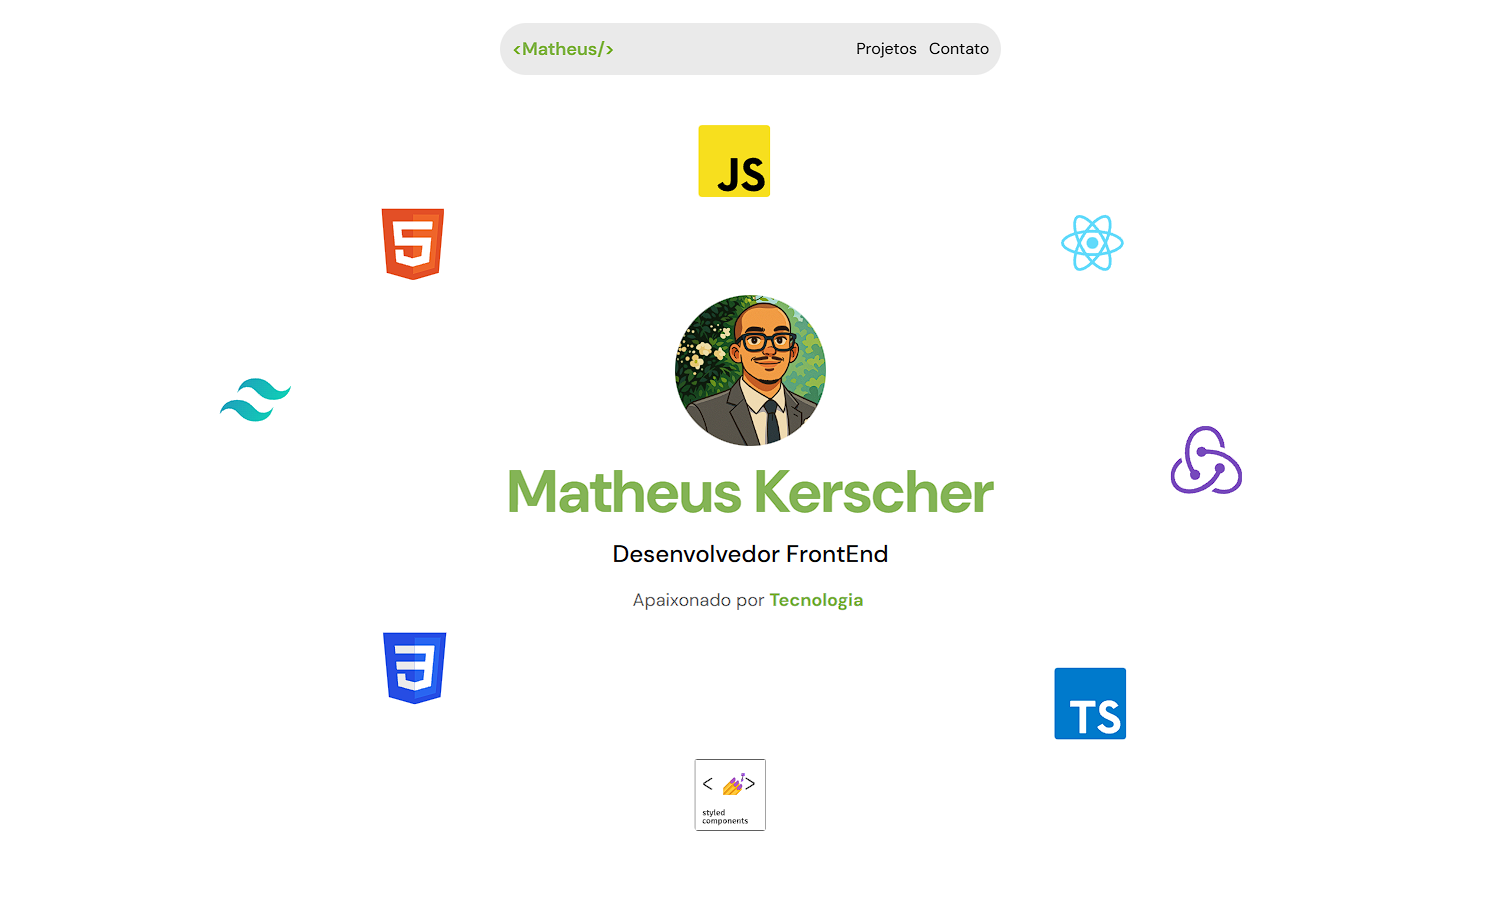
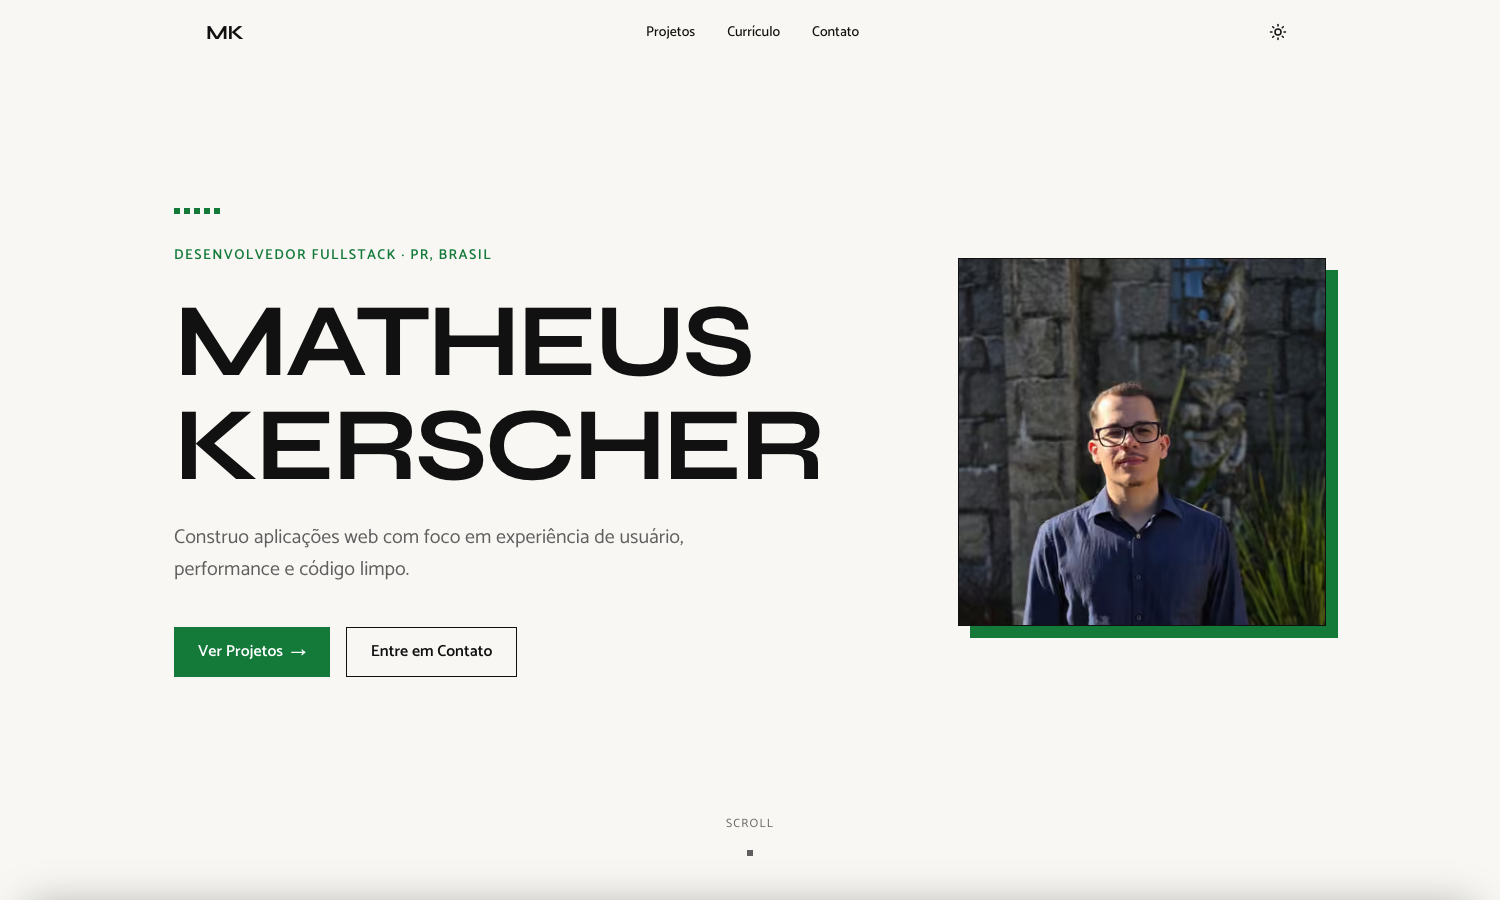
docs: update the README and CLAUDE.md for the redesign
The gate now includes the Playwright suite. Both files describe the new scripts, the single
content source, the colour contract, the generated assets and how to refresh them, and the
README thumbnail shows the new home page.

diff --git a/README.md b/README.md
@@ -16,6 +16,9 @@ with, selected projects, my professional experience and ways to get in touch. It
   for smooth scrolling
 - [next-themes](https://github.com/pacocoursey/next-themes) for the light and dark themes
 - [Zod](https://zod.dev) 4 for validation
+- [Playwright](https://playwright.dev) with [axe-core](https://github.com/dequelabs/axe-core) for the
+  end-to-end and accessibility tests, and [Lighthouse](https://developer.chrome.com/docs/lighthouse) for
+  the performance audit
 
 ## Getting started
 
@@ -32,16 +35,56 @@ The site is served at <http://localhost:3000>.
 
 ## Scripts
 
-| Script                        | What it does                                   |
-| ----------------------------- | ---------------------------------------------- |
-| `npm run dev`                 | Starts the development server                  |
-| `npm run build`               | Builds for production, including type checking |
-| `npm start`                   | Serves the production build                    |
-| `npm run lint:eslint:check`   | Runs ESLint                                    |
-| `npm run lint:prettier:check` | Checks formatting with Prettier                |
-| `npm run lint:prettier:fix`   | Formats the code with Prettier                 |
-| `npm run commit`              | Opens the Commitizen prompt for a commit       |
-| `npm run update-dependencies` | Interactively updates dependencies             |
+| Script                        | What it does                                                       |
+| ----------------------------- | ------------------------------------------------------------------ |
+| `npm run dev`                 | Starts the development server                                      |
+| `npm run build`               | Builds for production, including type checking                     |
+| `npm start`                   | Serves the production build                                        |
+| `npm run lint:eslint:check`   | Runs ESLint                                                        |
+| `npm run lint:prettier:check` | Checks formatting with Prettier                                    |
+| `npm run lint:prettier:fix`   | Formats the code with Prettier                                     |
+| `npm run typecheck`           | Type checks without building                                       |
+| `npm run test:e2e`            | Builds the site and runs the Playwright suite against it           |
+| `npm run test:e2e:ui`         | Opens the Playwright UI                                            |
+| `npm run test:e2e:install`    | Downloads the browsers Playwright needs                            |
+| `npm run audit`               | Measures the production build with Lighthouse, mobile and desktop  |
+| `npm run assets:pixel`        | Regenerates the pixel-art portrait, the icons and 8-bit thumbnails |
+| `npm run commit`              | Opens the Commitizen prompt for a commit                           |
+| `npm run update-dependencies` | Interactively updates dependencies                                 |
+
+## Tests
+
+The end-to-end suite runs in Chromium, Firefox, WebKit and two mobile profiles, against the production
+build:
+
+```sh
+npm run test:e2e:install   # once
+npm run test:e2e
+```
+
+It covers the stacked sections, the carousels, keyboard focus, the contrast of the colour palette, the
+metadata and the structured data, and it runs axe on both routes in the light and dark themes.
+
+## Performance audit
+
+`npm run audit` builds the site, serves it with 40 ms of latency per response and runs Lighthouse five
+times with the mobile and the desktop presets. It fails when the median Performance, or any other
+category, is below 95. `npm run audit -- --write` also stores the medians in
+[src/app/data/audit.json](src/app/data/audit.json), which the site shows in its Inspector; run it after
+a change that can affect loading.
+
+## Generated assets
+
+The pixel-art portrait, the favicon, the app icons and the 8-bit versions of the project thumbnails are
+generated, so they are not edited by hand. `npm run assets:pixel` rebuilds them from
+[scripts/assets/portrait-art.jpeg](scripts/assets/portrait-art.jpeg) and from the screenshots in
+[public/thumbnails/](public/thumbnails/). To change the portrait, replace that file and run the script.
+
+A project thumbnail, or the one at the top of this file, is captured with
+`node scripts/capture-thumbnail.mjs <url> <output.png>`.
+
+The site has an Easter egg. Its two ways in are in
+[src/app/components/skin-easter-egg.tsx](src/app/components/skin-easter-egg.tsx).
 
 ## Project structure
 
@@ -49,12 +92,14 @@ The site is served at <http://localhost:3000>.
 src/
 ├── app/
 │   ├── components/        page sections and site-specific components
-│   ├── data/              content: projects and curriculum
+│   ├── data/              content: site facts and copy, projects, curriculum
 │   ├── email-signature/   email signature generator page
 │   ├── layout.tsx         root layout, fonts and metadata
 │   └── page.tsx           home page
 ├── components/ui/         shadcn/ui components
 └── lib/                   shared utilities
+e2e/                       Playwright tests
+scripts/                   Lighthouse audit, asset generation, thumbnail capture
 public/                    static assets
 .specs/                    specifications for work in flight
 ```
@@ -62,7 +107,8 @@ public/                    static assets
 ## Contributing
 
 Commits follow [Conventional Commits](https://www.conventionalcommits.org) and are checked by commitlint
-on every commit and pull request. Pull requests also run ESLint and Prettier.
+on every commit and pull request. Pull requests also run ESLint, Prettier, the Playwright suite and the
+Lighthouse audit.
 
 Work starts as a specification before any code is written. The process is described in
 [.specs/README.md](.specs/README.md).

diff --git a/CLAUDE.md b/CLAUDE.md
@@ -5,21 +5,32 @@ Personal portfolio site: Next.js App Router, React, Tailwind CSS, TypeScript. Ve
 
 ## The gate
 
-There is no test suite. A change is verified by all three passing:
+A change is verified by all four passing:
 
 ```sh
-npm run lint:eslint:check && npm run lint:prettier:check && npm run build
+npm run lint:eslint:check && npm run lint:prettier:check && npm run build && npm run test:e2e
 ```
 
-`npm run build` is the type check. For anything visual, also check `/` and `/email-signature` on
-`npm run dev`.
+`npm run build` is the type check. `npm run test:e2e` builds the site, serves it on port 3100 and runs
+Playwright in five projects; `npm run test:e2e:install` downloads the browsers once. For anything
+visual, also check `/` and `/email-signature` on `npm run dev`, in light and dark.
+
+A change that can affect loading is also measured with `npm run audit`: Lighthouse, median of 5, at
+least 95 in every category. It serves the build through a 40 ms latency proxy on purpose; a score read
+on the raw localhost is not evidence (`.specs/memory/lighthouse-on-localhost.md`).
 
 ## Layout
 
 - `src/app/components/` — page sections and site-specific components.
-- `src/app/data/` — site content (projects, curriculum). Edit content here, keeping components free of
-  copy.
+- `src/app/data/` — site content. `site.ts` is the single source of facts and interface copy, read by
+  the sections, the metadata, the JSON-LD, `/llms.txt` and the sitemap; `projects.ts` and
+  `curriculum.ts` hold the lists. Edit content here, keeping components free of copy, and bump
+  `site.contentUpdatedAt` when the visible content changes.
 - `src/components/ui/` — shadcn/ui components, added through `components.json`.
+- `src/lib/` — shared code: the colour contract, the metadata helper, the skin store.
+- `e2e/` — Playwright suites; what they share is in `e2e/helpers.ts`.
+- `scripts/` — `lighthouse.mjs` (`npm run audit`), `pixel-assets.mjs` (`npm run assets:pixel`) and
+  `capture-thumbnail.mjs`.
 - `@/*` resolves to `src/*`.
 
 ## Conventions
@@ -28,6 +39,21 @@ npm run lint:eslint:check && npm run lint:prettier:check && npm run build
   metadata are in Brazilian Portuguese.
 - **Commits:** Conventional Commits, enforced by a `commit-msg` hook. Body lines are capped at 100
   characters.
+- **Colours:** only the tokens of `src/app/globals.css` (`paper`, `surface`, `ink`, `ink-muted`,
+  `brand`, `line-strong`, …): no literals and no `dark:` colour pairs. A new pair of foreground and
+  background goes into `src/lib/palette-contract.ts`, which `e2e/palette.spec.ts` checks in both
+  themes.
+- **Client Components:** one that is rendered on every page does not import `cn`, which would ship
+  tailwind-merge to the browser. Join its classes by hand.
+- **Stacked sections:** a `.stack-panel` carries no Tailwind position utility (`relative`,
+  `absolute`, …); it would override the sticky positioning of the stylesheet. The stack is laid out
+  below the navbar through `--nav-h`.
+- **8-bit mode is an Easter egg:** nothing in the normal skin announces it. The ways in are in
+  `src/app/components/skin-easter-egg.tsx`, and the Inspector exists only inside that skin. Tests enter
+  it with `storeSkin` from `e2e/helpers.ts`.
+- **Generated files:** `public/avatar/`, `public/thumbnails/8bit/`, `src/app/favicon.ico`,
+  `src/app/icon.png` and `src/app/apple-icon.png` come from `npm run assets:pixel`, and
+  `src/app/data/audit.json` from `npm run audit -- --write`. They are regenerated, not edited.
 - **Dependencies:** keep each entry's existing form in `package.json` — exact pins stay exact, ranges
   stay ranges. Install explicit versions; `npm run update-dependencies` is interactive. A peer
   dependency conflict means the package stays on its current version: record it in
@@ -37,4 +63,5 @@ npm run lint:eslint:check && npm run lint:prettier:check && npm run build
 ## Spec-driven workflow
 
 A piece of work starts as a spec under `.specs/changes/`, approved before any code is written. Follow
-`.specs/README.md` for the folder naming, the templates and the lifecycle.
+`.specs/README.md` for the folder naming, the templates and the lifecycle. Verified facts about the
+system and its tools are in `.specs/memory/`.
